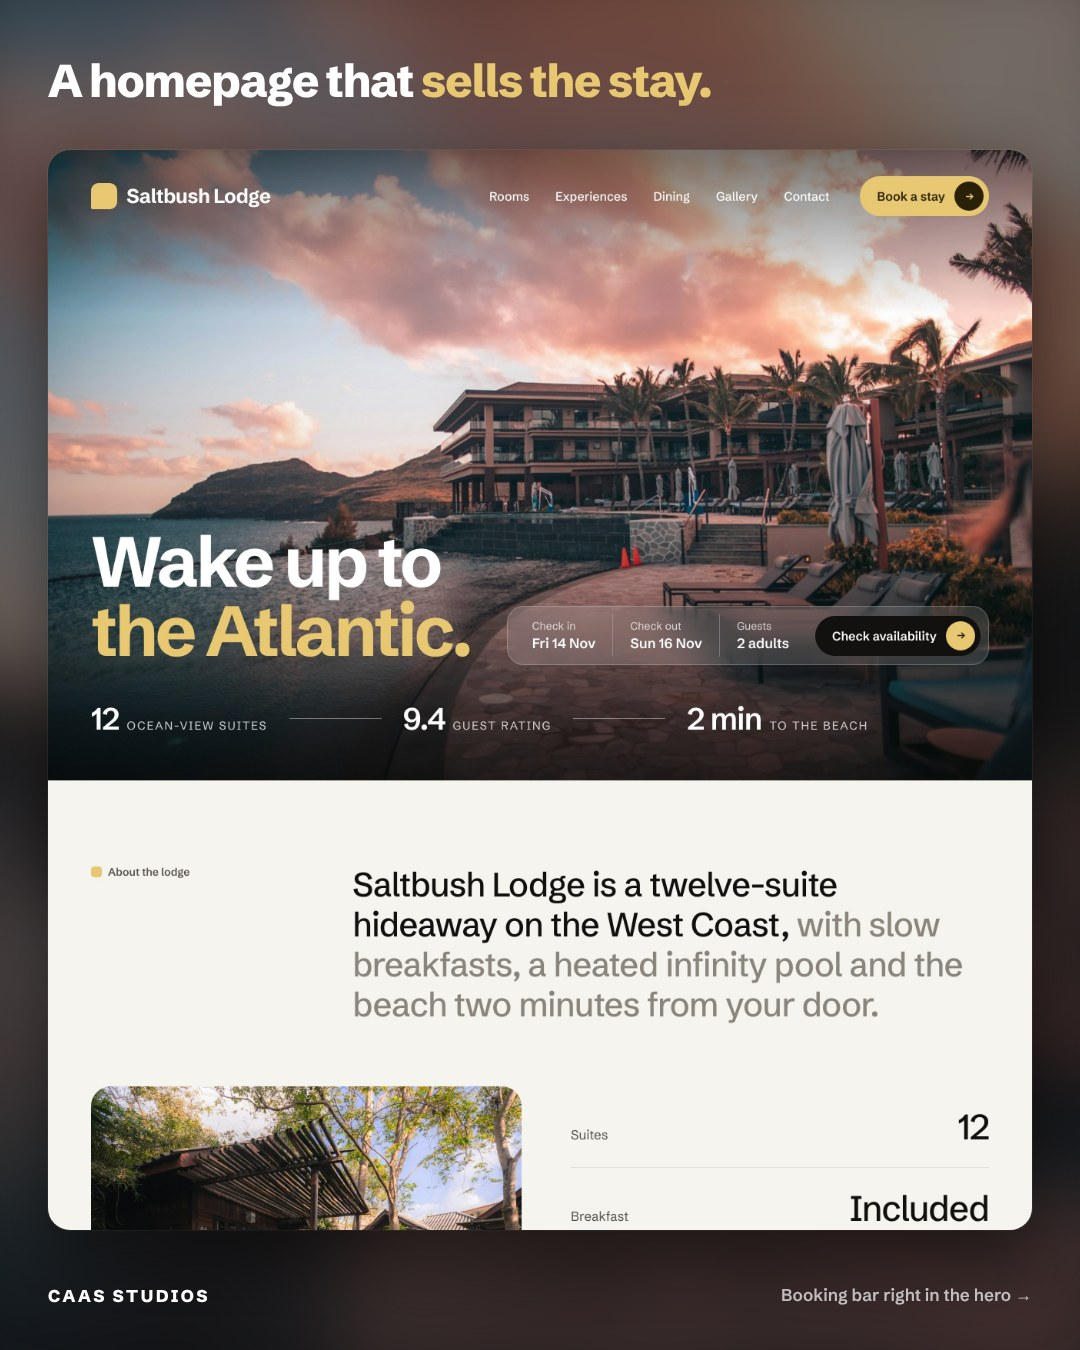
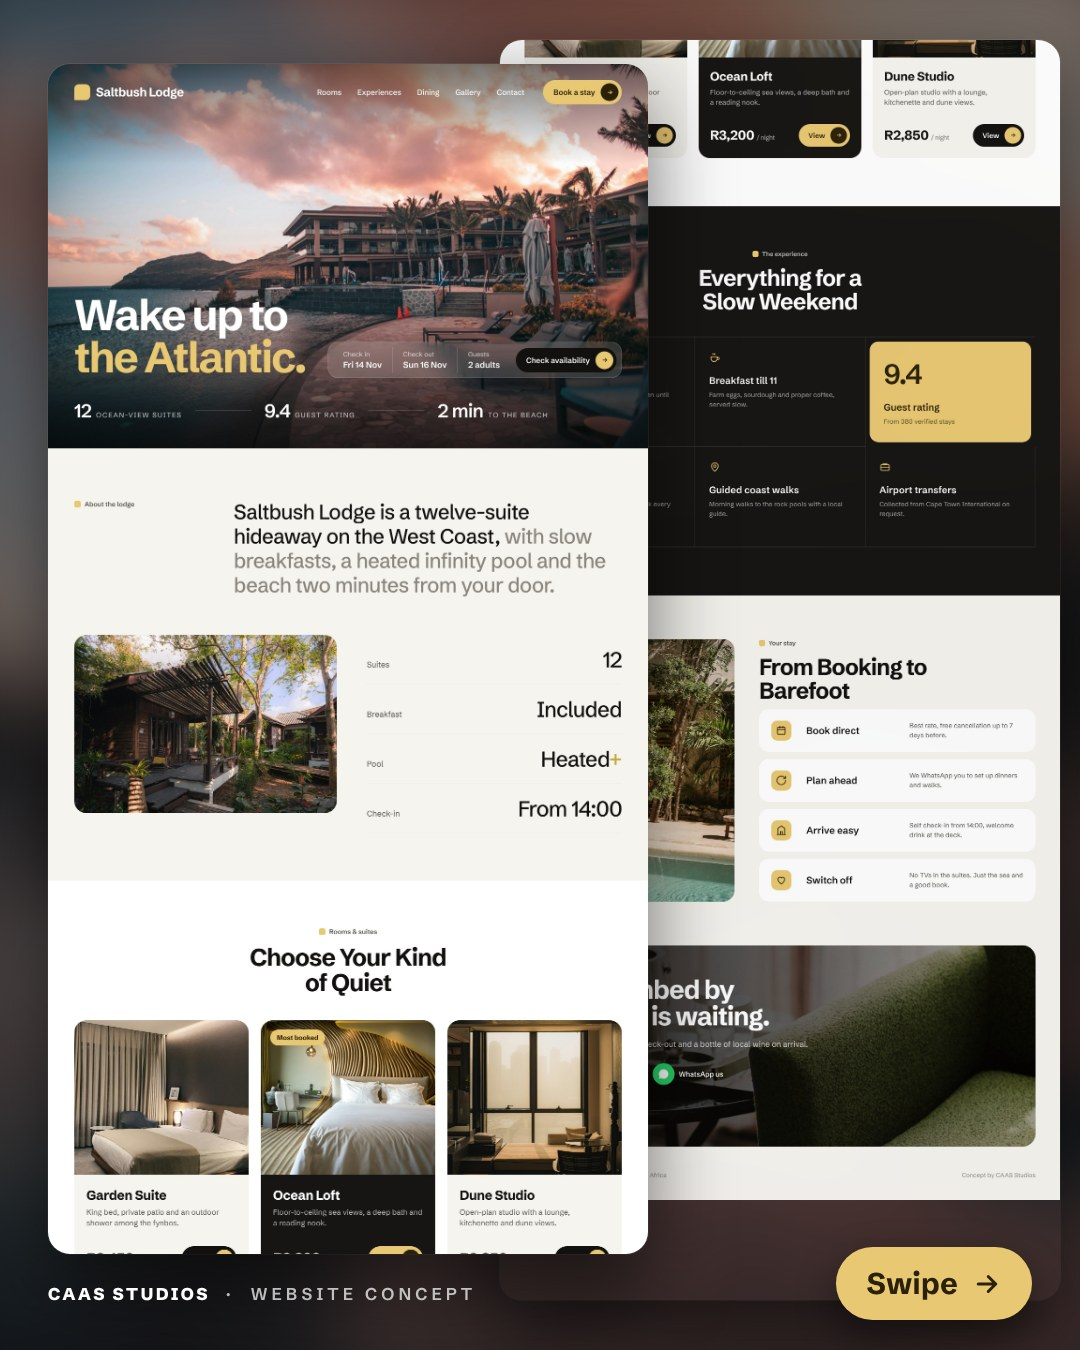
Showcase: add monitor cover slide (replaces hero close-up)

diff --git a/posts/_examples/04-showcase/slide1.html b/posts/_examples/04-showcase/slide1.html
@@ -1,11 +1,39 @@
 <!doctype html>
-<html lang="en"><head><meta charset="utf-8"><title>Saltbush Lodge overview</title>
-<link rel="stylesheet" href="showcase.css"></head>
+<html lang="en"><head><meta charset="utf-8"><title>Saltbush Lodge cover</title>
+<link rel="stylesheet" href="showcase.css">
+<style>
+  /* Cover slide: big title, the homepage hero on a desktop monitor, white base band. */
+  .cover-bg { position: absolute; inset: -20px; background-size: cover; background-position: 50% 60%; filter: blur(6px) brightness(0.8); }
+  .cover-shade { position: absolute; inset: 0; background: linear-gradient(180deg, rgba(12,10,9,0.55) 0%, rgba(12,10,9,0.15) 38%, rgba(12,10,9,0.1) 70%, rgba(12,10,9,0.3) 100%); }
+  .top { position: absolute; left: 56px; right: 56px; top: 52px; display: flex; justify-content: space-between; font-size: 22px; font-weight: 600; }
+  .title { position: absolute; left: 0; right: 0; top: 150px; text-align: center; line-height: 0.92; letter-spacing: -0.05em; font-weight: 700; }
+  .title .l1 { font-size: 118px; font-weight: 600; color: #fff; position: relative; z-index: 3; }
+  .title .l2 { font-size: 150px; font-weight: 600; color: rgba(255,255,255,0.32); display: block; position: relative; z-index: 1; }
+  .monitor { position: absolute; left: 70px; top: 385px; width: 940px; z-index: 2; }
+  .bezel { background: #111; border-radius: 22px; padding: 14px 14px 16px; box-shadow: 0 40px 90px rgba(0,0,0,0.55), inset 0 0 0 2px #2a2a2a; position: relative; }
+  .bezel::before { content: ""; position: absolute; top: 5px; left: 50%; width: 6px; height: 6px; margin-left: -3px; border-radius: 50%; background: #333; }
+  .screen { width: 912px; height: 570px; border-radius: 8px; background-image: url('site.jpg'); background-size: 912px auto; background-position: 0 0; }
+  .chin { height: 14px; background: linear-gradient(#e9e9ea, #cfcfd2); border-radius: 0 0 16px 16px; margin: 0 2px; }
+  .neck { width: 170px; height: 240px; margin: 0 auto; background: linear-gradient(90deg, #bdbdc1 0%, #f2f2f3 45%, #d6d6d9 100%); }
+  .base { position: absolute; left: 0; right: 0; bottom: 0; height: 210px; z-index: 3;
+          background: linear-gradient(180deg, rgba(255,255,255,0) 0%, rgba(255,255,255,0.92) 28%, #fff 45%); }
+  .base .in { position: absolute; left: 56px; right: 56px; bottom: 46px; display: flex; justify-content: space-between; align-items: flex-end; color: #12110F; }
+  .base b { display: block; font-size: 34px; font-weight: 800; letter-spacing: -0.02em; }
+  .base span { font-size: 24px; color: #55524C; }
+  .base .swipe { position: static; box-shadow: 0 10px 30px rgba(0,0,0,0.15); }
+</style></head>
 <body><div class="s">
-  <div class="bg" style="background-image: url('../../../stock/guesthouse/pool-hero.jpg')"></div>
-
-  <div class="crop" style="left:500px; top:40px; width:560px; height:1260px; background-size:560px auto; background-position:0 -1019.4px; opacity:0.97;"></div>
-  <div class="crop" style="left:48px; top:64px; width:600px; height:1190px; background-size:600px auto; background-position:0 0.0px;"></div>
-  <div class="label" style="left:48px; bottom:46px"><b>CAAS STUDIOS</b> &nbsp;·&nbsp; Website concept</div>
-  <div class="swipe" style="right:48px; bottom:30px">Swipe <svg viewBox="0 0 24 24" fill="none" stroke="currentColor" stroke-width="2.4" stroke-linecap="round" stroke-linejoin="round"><path d="M5 12h14M13 6l6 6-6 6"/></svg></div>
+  <div class="cover-bg" style="background-image: url('../../../stock/guesthouse/pool-hero.jpg')"></div>
+  <div class="cover-shade"></div>
+  <div class="top"><span>&copy; 2026 CAAS Studios</span><span>@prosper.builds</span></div>
+  <div class="title"><span class="l1">Boutique Lodge</span><span class="l2">Website</span></div>
+  <div class="monitor">
+    <div class="bezel"><div class="screen"></div></div>
+    <div class="chin"></div>
+    <div class="neck"></div>
+  </div>
+  <div class="base"><div class="in">
+    <div><b>UI/UX Design</b><span>Hospitality industry</span></div>
+    <div class="swipe">Swipe <svg viewBox="0 0 24 24" fill="none" stroke="currentColor" stroke-width="2.4" stroke-linecap="round" stroke-linejoin="round"><path d="M5 12h14M13 6l6 6-6 6"/></svg></div>
+  </div></div>
 </div></body></html>

diff --git a/posts/_examples/04-showcase/slide2.html b/posts/_examples/04-showcase/slide2.html
@@ -1,10 +1,11 @@
 <!doctype html>
-<html lang="en"><head><meta charset="utf-8"><title>Saltbush Lodge hero</title>
+<html lang="en"><head><meta charset="utf-8"><title>Saltbush Lodge overview</title>
 <link rel="stylesheet" href="showcase.css"></head>
 <body><div class="s">
   <div class="bg" style="background-image: url('../../../stock/guesthouse/pool-hero.jpg')"></div>
 
-  <div class="head"><h1>A homepage that <span>sells the stay.</span></h1></div>
-  <div class="crop" style="left:48px; top:150px; width:984px; height:1080px; background-size:984px auto; background-position:0 0.0px;"></div>
-  <div class="sig"><b>CAAS STUDIOS</b><span>Booking bar right in the hero &rarr;</span></div>
+  <div class="crop" style="left:500px; top:40px; width:560px; height:1260px; background-size:560px auto; background-position:0 -1019.4px; opacity:0.97;"></div>
+  <div class="crop" style="left:48px; top:64px; width:600px; height:1190px; background-size:600px auto; background-position:0 0.0px;"></div>
+  <div class="label" style="left:48px; bottom:46px"><b>CAAS STUDIOS</b> &nbsp;·&nbsp; Website concept</div>
+  <div class="swipe" style="right:48px; bottom:30px">Swipe <svg viewBox="0 0 24 24" fill="none" stroke="currentColor" stroke-width="2.4" stroke-linecap="round" stroke-linejoin="round"><path d="M5 12h14M13 6l6 6-6 6"/></svg></div>
 </div></body></html>

diff --git a/RUNBOOK.md b/RUNBOOK.md
@@ -29,7 +29,7 @@ Copy the approved reference for the format and adapt it to the industry. Match i
 - **ab** → `posts/_examples/01-ab/slide1.html`: eyebrow `<INDUSTRY> BOOKING/ORDERING`, a question headline ("Which … gets more clients?"), two versions of the same real UI element for this business (A: clean light card with photo on top; B: photo-led dark card with glass panel). Both must look good; B is the bolder one. A/B circles under the cards, footer "Comment A or B ↓".
 - **landing** → `posts/_examples/02-landing/slide1.html`: "Concept NN — <Industry> website" eyebrow, full homepage mockup: nav + logo + CTA pill, big photo hero with a two-line headline (second line in a warm accent), short subline, CTA, rating line, a floating glass info card, then the lower row (about block + two dark photo tiles with "Learn more").
 - **before-after** → `posts/_examples/03-before-after/slide1.html`: "Which one would you book/hire/visit?", two phones. BEFORE = a believable average template site (plain header, dim stock photo with a generic "Welcome to …" line, an "About Us" text block, grey service boxes, "contact us" link, "Read More" button, dated © footer) — plausible but forgettable, never cartoonish. AFTER = photo-led redesign with chip, bold headline, one clear CTA + WhatsApp button. The after must clearly win.
-- **showcase** → `posts/_examples/04-showcase/` (a 4-slide carousel). First build `site.html`: a full 1280px-wide desktop homepage for the business, with the same section rhythm as the example (photo hero with two-line headline + accent second line + glass booking/quote bar + stat row; about statement with grey continuation + photo + facts list; 3 service/product cards with prices, middle one dark with a chip; dark features grid with one accent stat tile; 4-step "how it works" list beside a photo; photo CTA band with WhatsApp; footer "Concept by CAAS Studios"). Pick ONE accent colour that suits the industry. Then copy `showcase.css` and adapt `slide1-4.html`: (1) overview: back column = lower half of the page, front column = top of the page, "Swipe" pill; (2) close-up of hero + about with a headline about the idea; (3) close-up of the cards section; (4) "Want a site like this?" + close-up of the steps section + DM/WhatsApp CTA + 3 chips. Crops use site.jpg with `background-size: <card width>px auto` and `background-position: 0 -<section offsetTop × card width/1280>px`; measure section offsets with Playwright (`section.offsetTop`) rather than guessing. Never let a crop end on a sliver of the next section. Swap the `.bg` blurred photo to this item's hero photo. Needs 6–7 photos (hero, about, 3 cards, steps, CTA).
+- **showcase** → `posts/_examples/04-showcase/` (a 4-slide carousel). First build `site.html`: a full 1280px-wide desktop homepage for the business, with the same section rhythm as the example (photo hero with two-line headline + accent second line + glass booking/quote bar + stat row; about statement with grey continuation + photo + facts list; 3 service/product cards with prices, middle one dark with a chip; dark features grid with one accent stat tile; 4-step "how it works" list beside a photo; photo CTA band with WhatsApp; footer "Concept by CAAS Studios"). Pick ONE accent colour that suits the industry. Then copy `showcase.css` and adapt `slide1-4.html`: (1) COVER: "© 2026 CAAS Studios" / "@prosper.builds" top row, big two-line title "<Industry>" (white) + "Website" (ghosted white ~32%), the site hero shown on the desktop monitor (`.screen` crops site.jpg from the top), white base band with "UI/UX Design" + "<Sector> industry" and the Swipe pill, blurred hero photo behind; keep the industry title short enough to fit one line at 118px (≈14 characters, shrink the font if longer); (2) overview: back column = lower half of the page, front column = top of the page, "Swipe" pill; (3) close-up of the cards section; (4) "Want a site like this?" + close-up of the steps section + DM/WhatsApp CTA + 3 chips. Crops use site.jpg with `background-size: <card width>px auto` and `background-position: 0 -<section offsetTop × card width/1280>px`; measure section offsets with Playwright (`section.offsetTop`) rather than guessing. Never let a crop end on a sliver of the next section. Swap the `.bg` blurred photo to this item's hero photo. Needs 6–7 photos (hero, about, 3 cards, steps, CTA).
 - Link `../../brand/ui.css` (adjust the relative path for the folder depth) and `stock/<slug>/…` photos with relative paths. Fonts come from `brand/fonts.css` (local files).
 - Industry-fitting copy, real South African prices in Rand, services that business actually sells. Ratings/review counts may appear inside the mockup UI (it is a concept site); never in the caption as facts.
 - Footer sig: "CAAS STUDIOS" left; right side per format as in the references.
